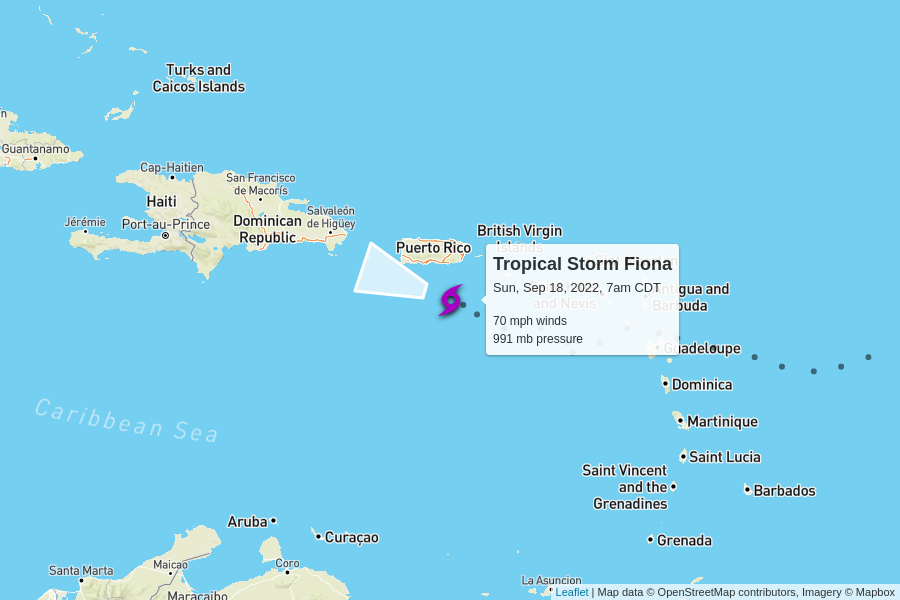
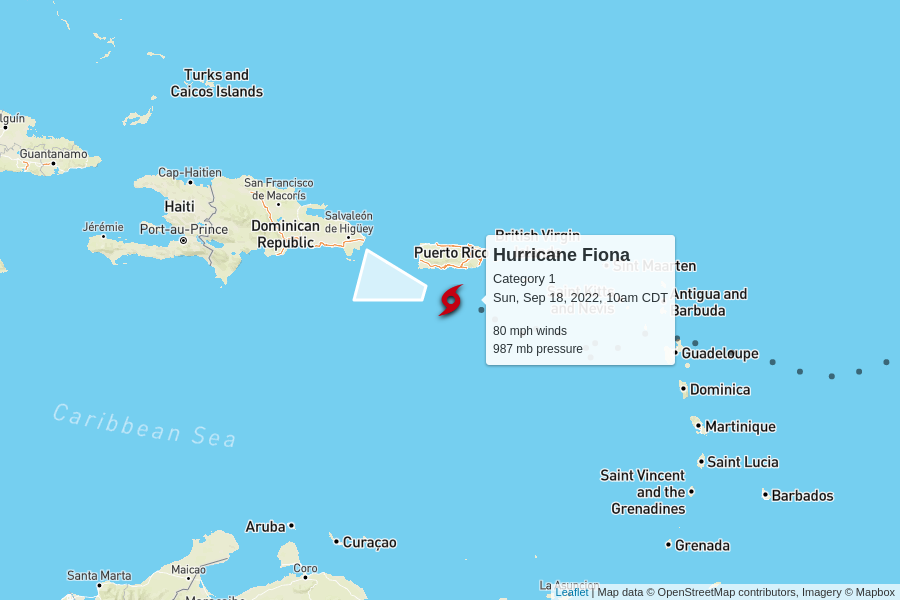
automatic update

diff --git a/docs/index.html b/docs/index.html
@@ -97,10 +97,10 @@
 
     <table>
       <tr>
-        <td colspan="6" class="storm category-0" >
+        <td colspan="6" class="storm category-1" >
           <h2>
-            Tropical Storm Fiona
-            <p class="updated">last updated <span data-time>2022-09-18T12:00:00.000Z</span></p>
+            Hurricane Fiona - Category 1
+            <p class="updated">last updated <span data-time>2022-09-18T15:00:00.000Z</span></p>
           </h2>
         </td>
       </tr>
@@ -115,12 +115,12 @@
       </tr>
       <tr>
         <td class="spacer"></td>
-        <td>70 mph</td>
-        <td>991 mb</td>
+        <td>80 mph</td>
+        <td>987 mb</td>
         <td>
           8 mph to the west-northwest
           <br/>
-          <span style="display: inline-block; font-size: 1.5em; transform: rotate(290deg);">↑</span>
+          <span style="display: inline-block; font-size: 1.5em; transform: rotate(285deg);">↑</span>
         </td>
         <td><a href="https://raw.githubusercontent.com/mgwalker/atlantic-hurricanes/main/data/csv/AL072022.csv">AL072022.csv</a></td>
         <td><a href="https://www.nhc.noaa.gov/archive/2022/FIONA.shtml?">NHC advisories</a></td>
